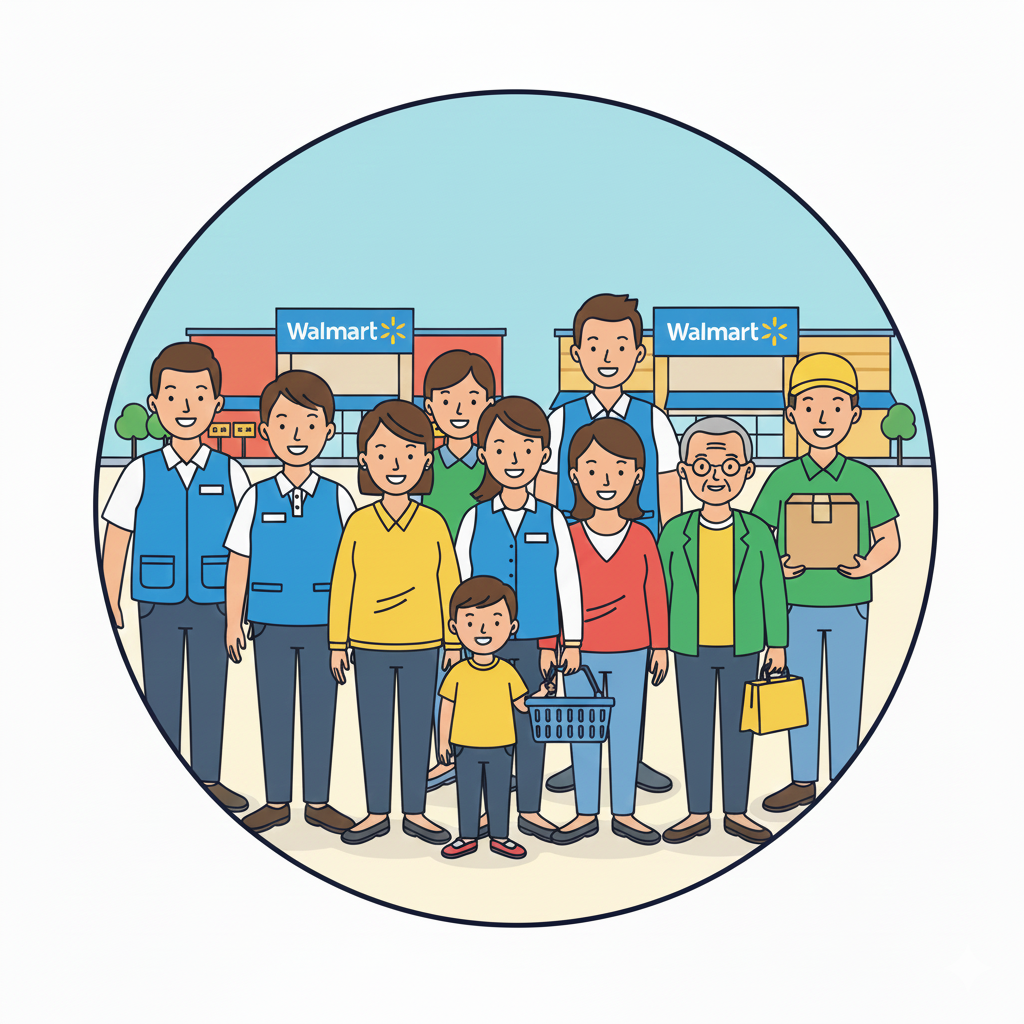
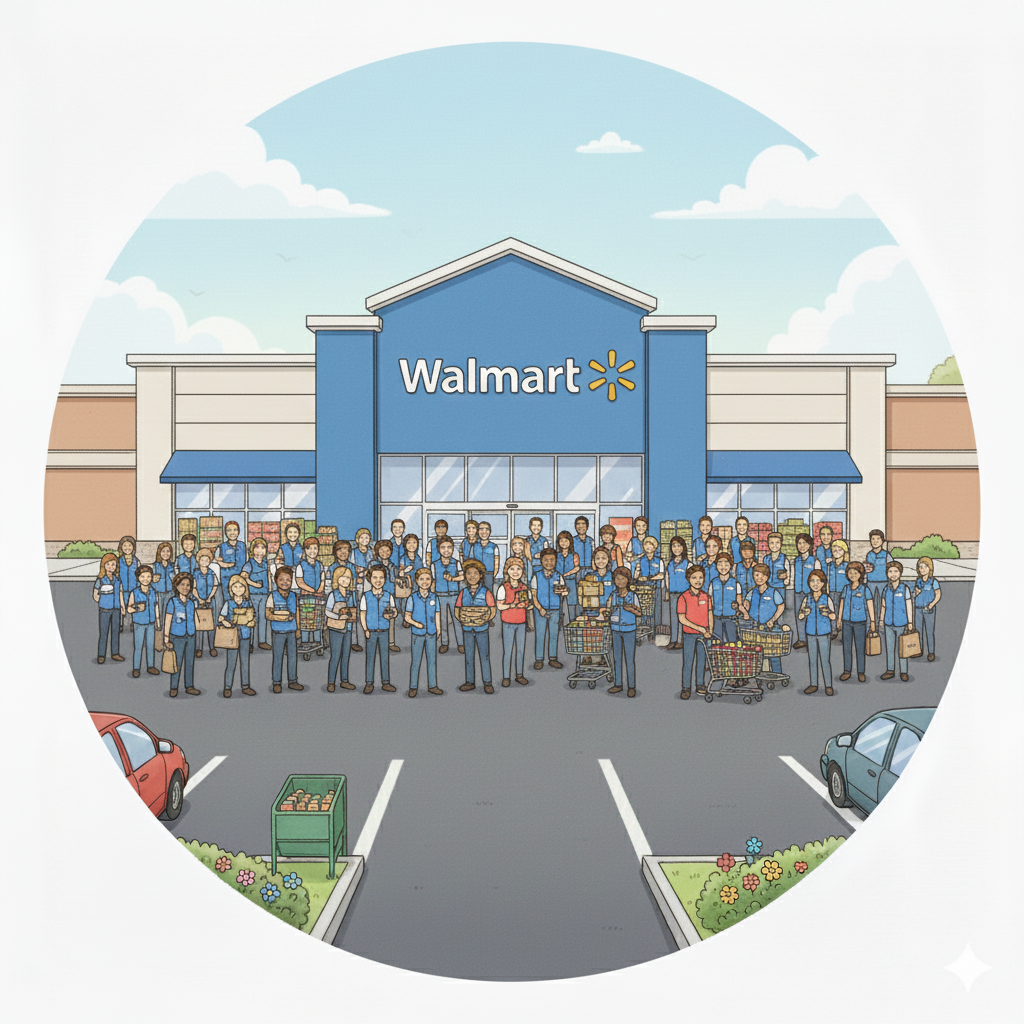
Improve Walmart

diff --git a/src/data.ts b/src/data.ts
@@ -72,12 +72,15 @@ export const circlesData: CircleData[] = [
   // },
   {
     id: 7,
-    name: "Walmart",
-    numberOfPersons: 2100000,
-    yearlyTurnOver: 681000000000,
+    name: "an average Walmart store",
+    numberOfPersons: 195,
+    yearlyTurnOver: 63200000,
     predicate: "working at",
     imageFileName: "images/walmart.png",
-    sources: [],
+    sources: [{
+      name: "Wikipedia",
+      url: "https://en.wikipedia.org/wiki/Walmart"
+    }],
   },
   {
     id: 8,
